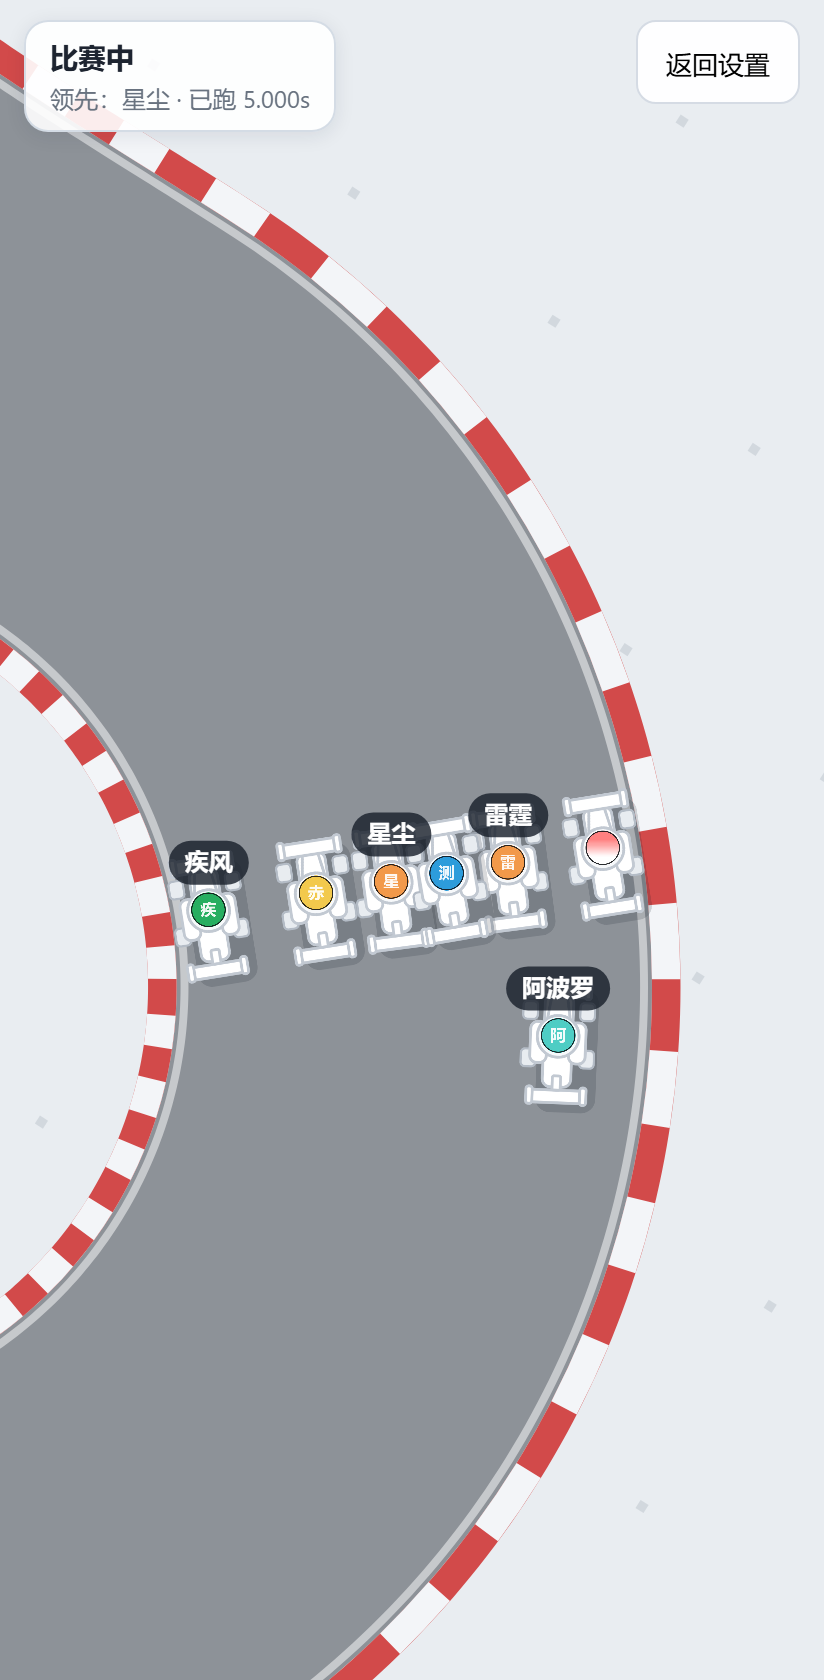
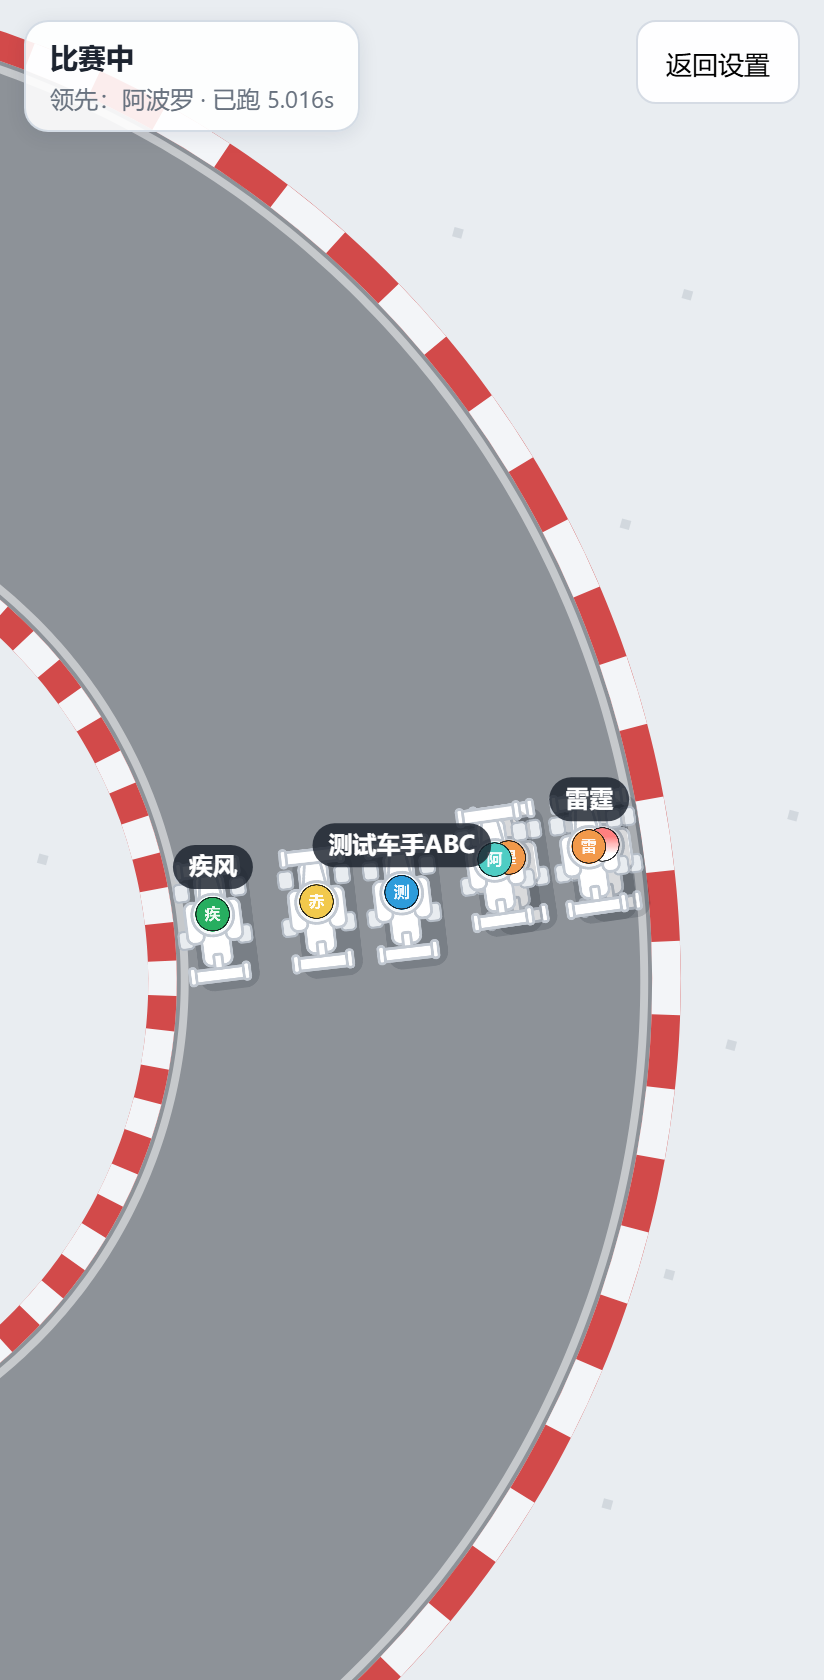
车辆可互相穿过；被挡满2秒立即爆发脱困；终点时间毫秒且不重复

Changed region(s): [[0.091, 0.0, 0.8495, 1.0], [0.0, 0.3405, 0.3034, 0.8357], [0.0, 0.0, 0.0303, 0.0619]]

diff --git a/index.html b/index.html
@@ -578,7 +578,7 @@ function rankCars(cars){
   });
 }
 function createCars(track, rnd){
-  var baseSpeed = track.raceLen / 18.2;
+  var baseSpeed = track.raceLen / 21.5;
   var cars = participants.map(function(p){
     return {
       p: p, s: 0, v: 0, lateral: 0, yaw: 0, progress: 0,
@@ -590,13 +590,21 @@ function createCars(track, rnd){
       paceSeed: rnd() * TAU,
       paceSeed2: rnd() * TAU,
       paceSeed3: rnd() * TAU,
-      draft: 0, blocked: 0, follow: 1, gone: false, clear: true,
+      draft: 0, gone: false, stuck: false, stuckTimer: 0, breakoutTimer: 0,
       rank: 1, surgeTimer: 0, surgeCooldown: 1 + rnd()*4, surgePower: 0,
-      finishBias: (rnd()*2-1) * 0.015,      // 终点段 ±1.5% 微偏置，避免完全同时冲线
+      finishBias: 0,                         // 终点段偏置，下面按洗牌结果分配
       lane: 0, baseLane: 0
     };
   });
   var n = cars.length;
+  // 终点段偏置：把 [-1.5%, +1.5%] 均分成 n 份随机分配，每辆车的值互不相同，
+  // 因此最后 4200 单位里各车到线时刻天然错开（不会同一毫秒冲线），且每局重新洗牌保证公平。
+  var slots = [];
+  for (var s0=0;s0<n;s0++) slots.push(s0);
+  for (var s1=n-1;s1>0;s1--){ var s2 = Math.floor(rnd()*(s1+1)); var tmp = slots[s1]; slots[s1] = slots[s2]; slots[s2] = tmp; }
+  for (var s3=0;s3<n;s3++){
+    cars[s3].finishBias = ((slots[s3]/(n>1?(n-1):1)) - 0.5) * 0.06;
+  }
   var gridSpan = 2*(HALF_W - 20);
   var lanes = Math.max(1, Math.floor((2*(LANE_MAX - 4)) / 52) + 1);
   for (var i=0;i<n;i++){
@@ -624,7 +632,7 @@ function updateCar(c, dt, t, raceLen){
     var gap = Math.max(0, (race.leaderS || c.s) - c.s);
     // 位置系数：第 1 名最慢（0.90），越靠后越快（最后一名 1.18）
     var rf = total > 1 ? clamp((rank - 1) / (total - 1), 0, 1) : 0;
-    var posFactor = 0.90 + 0.28 * Math.pow(rf, 0.8);
+    var posFactor = 0.94 + 0.20 * Math.pow(rf, 0.8);
     // 真的掉队（落后领先者 400 单位以上）再额外给一点追赶增益
     var gapBoost = clamp((gap - 400) / 900, 0, 1) * 0.12;
     // 随机冲刺：只有掉出前 3 名才会触发，重新回到前 3 就暂停
@@ -638,11 +646,19 @@ function updateCar(c, dt, t, raceLen){
       c.surgeCooldown = 2.0 + Math.random()*4.5;
     }
     var surge = (c.surgeTimer > 0 && rank > 3) ? c.surgePower : 0;
-    var catchup = clamp(posFactor + gapBoost + surge, 0.80, 1.32);
-    var finishRamp = clamp((c.s - (raceLen - 4200)) / 4200, 0, 1);   // 最后 4200 单位逐渐取消加速/减速
-    if (finishRamp > 0) catchup = lerp(catchup, 1 + c.finishBias, finishRamp);
+    var rb = posFactor + gapBoost + surge;
+    var finishRamp = clamp((c.s - (raceLen - 5000)) / 5000, 0, 1);   // 最后 5000 单位逐渐取消橡皮筋
+    if (finishRamp > 0) rb = lerp(rb, 1 + c.finishBias, finishRamp);
+    // 被前车挡住（车身重叠）累计超过 2 秒 → 落后的这辆立刻爆发，冲上去
+    if (c.stuck) c.stuckTimer += dt;
+    else c.stuckTimer = Math.max(0, c.stuckTimer - dt * 3);
+    if (c.stuckTimer >= 2 && c.breakoutTimer <= 0){ c.breakoutTimer = 1.8; c.stuckTimer = 0; }
+    if (c.breakoutTimer > 0) c.breakoutTimer -= dt;
+    c.breakingOut = c.breakoutTimer > 0;
+    var breakout = c.breakingOut ? 0.45 * (c.breakoutTimer / 1.8) : 0;   // 立刻 +45%，1.8 秒内衰减
+    var catchup = clamp(rb + breakout, 0.80, 1.65);
     c.catchup = catchup;
-    targetV = c.baseSpeed * pace * (1 + c.draft) * c.follow * (1 - 0.22 * c.blocked) * catchup;
+    targetV = c.baseSpeed * pace * (1 + c.draft) * catchup;
   }
   if (targetV > 0) c.v += (targetV - c.v) * (1 - Math.exp(-c.accel*dt));
   else c.v = 0;
@@ -666,10 +682,10 @@ function updateCar(c, dt, t, raceLen){
 }
 function interact(cars, dt){
   var n = cars.length;
-  for (var q=0;q<n;q++){ cars[q].draft = 0; cars[q].blocked = 0; cars[q].follow = 1; cars[q].clear = true; }
-  if (n > 120) return;                    // 车特别多时不再做逐对处理（此时允许重叠）
-  var GAP = 52;                           // 车身宽 46：横向拉开到 52 以上才算不重叠
-  var RANGE = 130;                        // 纵向关注范围
+  for (var q=0;q<n;q++){ cars[q].draft = 0; cars[q].stuck = false; }
+  if (n > 120) return;                    // 车特别多时不做逐对处理
+  var RANGE = 110;
+  var SIDE = 46;                          // 车身宽 46：横向差小于 46 即视为车身重叠
   for (var i=0;i<n;i++){
     var a = cars[i]; if (a.broken || a.gone) continue;
     for (var j=i+1;j<n;j++){
@@ -677,38 +693,17 @@ function interact(cars, dt){
       var ds = a.s - b.s;
       var ads = ds < 0 ? -ds : ds;
       if (ads > RANGE) continue;
-      a.clear = false; b.clear = false;
       var ahead  = ds > 0 ? a : b;
       var behind = ds > 0 ? b : a;
       var dl = a.lateral - b.lateral;
       var adl = dl < 0 ? -dl : dl;
-      if (ads < 120){
-        // 尾流只在斜后方有效（含一点点"抽头"窗口），正后方是乱流 —— 逼出"拉开-抽头-超越"
-        if (adl >= 26 && adl < 62) behind.draft += 0.09;
-        else if (adl < 26) behind.draft -= 0.03;
-        ahead.draft -= 0.04;
-      }
-      if (adl < 32){                       // 同车道跟车：车距小于一个车身长度就不能再快
-        var cap = clamp((ads - 52) / 42, 0, 1);
-        behind.follow = Math.min(behind.follow, cap);
-      }
-      if (adl < GAP){                                                   // 横向推开，直到不再重叠
-        var dir = dl >= 0 ? 1 : -1;
-        if (adl < 0.01) dir = (i % 2 === 0) ? 1 : -1;
-        var push = (GAP - adl) * 2.4 * dt * dir * 0.5;
-        a.lateral = clamp(a.lateral + push, -LANE_MAX, LANE_MAX);
-        b.lateral = clamp(b.lateral - push, -LANE_MAX, LANE_MAX);
-        // 关键：巡航线位跟着一起挪，否则"回到原车道"的阻尼会把两车又拉回重叠位置
-        a.lane = clamp(a.lane + push*0.7, -LANE_MAX, LANE_MAX);
-        b.lane = clamp(b.lane - push*0.7, -LANE_MAX, LANE_MAX);
-      }
+      if (adl < 62){ behind.draft += 0.09; ahead.draft -= 0.04; }   // 尾流 / 乱流
+      // 车身重叠（纵向一车身内、横向一车身内）且自己在后面 → 计入"被挡住"时间
+      if (ads < 80 && adl < SIDE) behind.stuck = true;
+      // 不做任何横向阻挡：车与车可以互相穿过，只在被挡满 2 秒后触发冲刺（见 updateCar）
     }
   }
-  for (var z=0;z<n;z++){
-    cars[z].draft = clamp(cars[z].draft, -0.09, 0.13);
-    cars[z].blocked = clamp(cars[z].blocked, 0, 1);
-    cars[z].follow = clamp(cars[z].follow, 0.45, 1);
-  }
+  for (var z=0;z<n;z++) cars[z].draft = clamp(cars[z].draft, -0.09, 0.13);
 }
 function updateCamera(dt){
   var racing = (race.phase === 'racing' || race.phase === 'countdown' || race.phase === 'setup');
@@ -1109,6 +1104,7 @@ function showCountdownText(v){
 function showResults(){
   var list = race.results || [];
   boardEl.innerHTML = '';
+  var prevMs = -1;                      // 显示层单调化：真实成绩若落在同一毫秒，按名次顺延 1ms
   for (var i=0;i<list.length;i++){
     if (i === 5){
       var sep = document.createElement('div');
@@ -1123,7 +1119,14 @@ function showResults(){
     var img = document.createElement('img'); img.alt = ''; img.src = c.avatar || '';
     var nm = document.createElement('span'); nm.className = 'nm'; nm.textContent = c.name;
     var stt = document.createElement('span'); stt.className = 'st';
-    stt.textContent = c.finished ? ('完成 · ' + fmtTime(c.finishTime)) : ('进度 ' + Math.round(c.progress*100) + '%');
+    if (c.finished){
+      var ms = Math.round(c.finishTime * 1000);
+      if (ms <= prevMs) ms = prevMs + 1;
+      prevMs = ms;
+      stt.textContent = '完成 · ' + (ms/1000).toFixed(3) + 's';
+    } else {
+      stt.textContent = '进度 ' + Math.round(c.progress*100) + '%';
+    }
     row.appendChild(rank); row.appendChild(img); row.appendChild(nm); row.appendChild(stt);
     boardEl.appendChild(row);
   }

diff --git a/qa_breakout.js b/qa_breakout.js
@@ -1,0 +1,45 @@
+const { chromium } = require(process.env.PW_PATH);
+const URL = 'file:///C:/Users/Administrator/dragen%20dance/avatar-racing/index.html';
+const OUT = 'C:/Users/Administrator/dragen dance/avatar-racing/qa';
+function P(l,v){ console.log(l + ' ' + JSON.stringify(v)); }
+(async function(){
+  const browser = await chromium.launch();
+  const errors = [];
+  for (let run=1; run<=2; run++){
+    const page = await browser.newPage({ viewport:{ width:412, height:840 }, deviceScaleFactor:2 });
+    page.on('pageerror', function(e){ errors.push('pageerror: ' + e.message); });
+    page.on('console', function(m){ if(m.type()==='error') errors.push('console: ' + m.text()); });
+    await page.goto(URL);
+    await page.click('#sampleBtn');
+    await page.evaluate(function(){ for (var i=0;i<4;i++) document.getElementById('addBtn').click(); });
+    await page.click('#startBtn');
+    await page.waitForTimeout(4400);
+    let samples=0, maxStuck=0, stuckSamples=0, breakouts=0, prevBo={}, overlapPairs=0, overlapSamples=0, mergedPairs=0, mergedSamples=0, shot=false;
+    for (let i=0;i<220;i++){
+      const st = await page.evaluate(function(){
+        var r = window.__avatarRace.race;
+        if (r.phase!=='racing' && r.phase!=='waiting') return null;
+        var c = r.cars, ov=0;
+        var merged=0; for (var i2=0;i2<c.length;i2++){ for (var j2=i2+1;j2<c.length;j2++){ var ds=Math.abs(c[i2].s-c[j2].s), dl=Math.abs(c[i2].lateral-c[j2].lateral); if (ds<80 && dl<46) ov++; if (ds<70 && dl<28) merged++; } }
+        return { t:+r.elapsed.toFixed(1), ov:ov, mg:merged, cars:c.map(function(x){ return { id:x.p.id, st:+(x.stuckTimer||0).toFixed(2), bo:(x.breakoutTimer||0)>0, stuck:!!x.stuck }; }) };
+      });
+      if (!st){ if (samples>0) break; await page.waitForTimeout(120); continue; }
+      if (st.t < 4){ await page.waitForTimeout(100); continue; }
+      samples++;
+      if (st.ov>0){ overlapSamples++; overlapPairs += st.ov; }
+      mergedPairs += (st.mg||0); if ((st.mg||0)>0) mergedSamples++;
+      st.cars.forEach(function(c){
+        if (c.st > maxStuck) maxStuck = c.st;
+        if (c.stuck) stuckSamples++;
+        if (c.bo && !prevBo[c.id]) breakouts++;
+        prevBo[c.id] = c.bo;
+      });
+      if (!shot && st.t > 8){ shot = true; await page.screenshot({ path: OUT + '/overlap_run' + run + '.png' }); }
+      await page.waitForTimeout(100);
+    }
+    P('RUN'+run, { samples: samples, maxStuckTimerSec: maxStuck, pctTouching: +(100*overlapSamples/samples).toFixed(0), avgTouchingPairs: +(overlapPairs/samples).toFixed(2), pctMerged: +(100*mergedSamples/samples).toFixed(0), avgMergedPairs: +(mergedPairs/samples).toFixed(2), breakoutEvents: breakouts });
+    await page.close();
+  }
+  P('ERRORS', errors);
+  await browser.close();
+})().catch(function(e){ P('FATAL', e.message); process.exit(1); });

diff --git a/qa_ms.js b/qa_ms.js
@@ -15,7 +15,7 @@ function P(l,v){ console.log(l + ' ' + JSON.stringify(v)); }
     let ok = false;
     for (let i=0;i<80;i++){
       const s = await page.evaluate(function(){ return window.__avatarRace.race.phase; });
-      if (s === 'results' || s === 'ending'){ ok = true; break; }
+      if (s === 'results'){ ok = true; break; }
       await page.waitForTimeout(500);
     }
     const res = await page.evaluate(function(){
